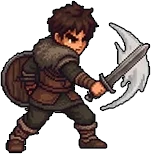
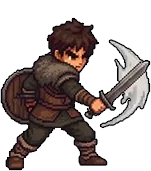
Sword attack pose: new ssattack from tracking (151x171, feet 56.5,170); worn Mossbloom Cap drawn over sword-and-shield poses using tracked head points and tilt (hat pin pending); cache token g
Claude-Session: https://claude.ai/code/session_01W4v7cyzS6Fr8aMVaGgywWE

diff --git a/js/ui.js b/js/ui.js
@@ -564,7 +564,7 @@ const COMBAT_POSE_SETS = {
     // CRI has two frames: one is picked at random for each critical attack. No dodge art yet, so dodge uses the base dodge.
     swordShield: {
         IDLE: { src: 'assets/cha/swordandshield/ssbase.png', w: 156, h: 189, fx: 72.5, fy: 173 },
-        ATTACK: { src: 'assets/cha/swordandshield/ssattack_q85.webp', w: 151, h: 154, fx: 48.64, fy: 153 },
+        ATTACK: { src: 'assets/cha/swordandshield/ssattack_q85.webp', w: 151, h: 171, fx: 56.5, fy: 170 },
         CRI: [
             { src: 'assets/cha/swordandshield/sscritical_q85.webp', w: 193, h: 154, fx: 108.59, fy: 154 },
             { src: 'assets/cha/swordandshield/sscritical2_q85.webp', w: 190, h: 159, fx: 59.66, fy: 159 }
@@ -624,6 +624,55 @@ function applyPlayerFrame(img, f, dy = 0) {
     img.style.top = (combatPlayerAnchor.y + COMBAT_PLAYER_FOOT.y - (f.fy !== undefined ? f.fy : f.h) + dy) + 'px';
     img.style.width = f.w + 'px';
     img.style.height = f.h + 'px';
+    placeHatLayer(img, f, parseFloat(img.style.left), parseFloat(img.style.top));
+}
+
+// Hat layer: a worn hat is drawn over the sword-and-shield sprite. Its pin point sits on the head point of that frame, turned by the frame's tilt.
+// Head points and tilts come from the tracking sheet (tilt: degrees, + leans right); the hat pin is in the hat image's own pixels.
+const HAT_LAYER_SPRITE = { 'Mossbloom Cap': { src: 'assets/helmet/lv1/hatbosslv1.png', w: 83, h: 82, pin: { x: 35.9, y: 37 } } };
+const SWORD_HAT_HEAD = {
+    ssbase: { x: 88, y: 33.9, tilt: 0 },
+    ssblock: { x: 111, y: 35.9, tilt: 0 },
+    ssattack: { x: 71, y: 33.8, tilt: 5 },
+    sscritical: { x: 133.1, y: 34.7, tilt: 15 },
+    sscritical2: { x: 87.4, y: 37, tilt: 6 }
+};
+// Which tracked sword frame a sprite file is (the hero's shadowed base uses the base head point)
+function swordHatKey(src) {
+    const m = String(src || '').match(/(ssbase|ssblock|ssattack|sscritical2|sscritical)/);
+    return m ? m[1] : null;
+}
+// Places the hat over a sprite whose top-left is (left, top). Hides it for frames with no hat tracking (bare heads, other poses).
+function placeHatLayer(sprite, frame, left, top) {
+    const parent = sprite.parentElement;
+    if (!parent || !Number.isFinite(left) || !Number.isFinite(top)) return;
+    const hatId = 'hat-layer-' + (sprite.id || 'x');
+    let el = document.getElementById(hatId);
+    const hat = player && player.equipped && player.equipped.hat;
+    const spec = hat && HAT_LAYER_SPRITE[hat.name];
+    const key = frame && frame.src && String(frame.src).includes('swordandshield') ? swordHatKey(frame.src) : null;
+    const head = key ? SWORD_HAT_HEAD[key] : null;
+    if (!spec || !head) { if (el) el.style.display = 'none'; return; }
+    if (!el) {
+        el = document.createElement('img');
+        el.id = hatId;
+        el.alt = '';
+        el.className = 'pointer-events-none';
+        el.style.position = 'absolute';
+        el.style.maxWidth = 'none';
+        el.style.maxHeight = 'none';
+        el.style.imageRendering = 'pixelated';
+        el.style.zIndex = String((parseInt(getComputedStyle(sprite).zIndex, 10) || 0) + 1);
+        parent.appendChild(el);
+    }
+    el.style.display = '';
+    if (el.getAttribute('src') !== spec.src) el.src = spec.src;
+    el.style.width = spec.w + 'px';
+    el.style.height = spec.h + 'px';
+    el.style.left = (left + head.x - spec.pin.x) + 'px';
+    el.style.top = (top + head.y - spec.pin.y) + 'px';
+    el.style.transformOrigin = spec.pin.x + 'px ' + spec.pin.y + 'px';
+    el.style.transform = head.tilt ? `rotate(${head.tilt}deg)` : '';
 }
 // Monster attack: the card's sprite shows the attack pose and lunges forward at once (same moment as the player's lunge)
 function monsterCardImg(m) {
@@ -2597,6 +2646,7 @@ function syncHeroSprites() {
             el.style.left = (o.left + base.fx - f.fx) + 'px';
             el.style.top = (o.top + base.fy - f.fy) + 'px';
         }
+        placeHatLayer(el, f, parseFloat(el.style.left), parseFloat(el.style.top));
     });
     // The shadowed sprite carries its own shadow, so the separate shadow images are hidden for it
     ['town-shadow', 'char-shadow'].forEach(id => {

diff --git a/index.html b/index.html
@@ -1111,13 +1111,13 @@
     <script src="data/monsters.js"></script>
     <script src="data/maps.js"></script>
     <script src="https://cdn.jsdelivr.net/npm/@supabase/supabase-js@2.45.4/dist/umd/supabase.js"></script>
-    <script src="js/player.js?v=20261103f"></script>
-    <script src="js/audio.js?v=20261103f"></script>
-    <script src="js/cloud.js?v=20261103f"></script>
-    <script src="js/combat.js?v=20261103f"></script>
-    <script src="js/ui.js?v=20261103f"></script>
-    <script src="js/town.js?v=20261103f"></script>
-    <script src="js/loader.js?v=20261103f"></script>
+    <script src="js/player.js?v=20261103g"></script>
+    <script src="js/audio.js?v=20261103g"></script>
+    <script src="js/cloud.js?v=20261103g"></script>
+    <script src="js/combat.js?v=20261103g"></script>
+    <script src="js/ui.js?v=20261103g"></script>
+    <script src="js/town.js?v=20261103g"></script>
+    <script src="js/loader.js?v=20261103g"></script>
 
 <script>
     // Called by js/loader.js once the loading screen has finished preloading
